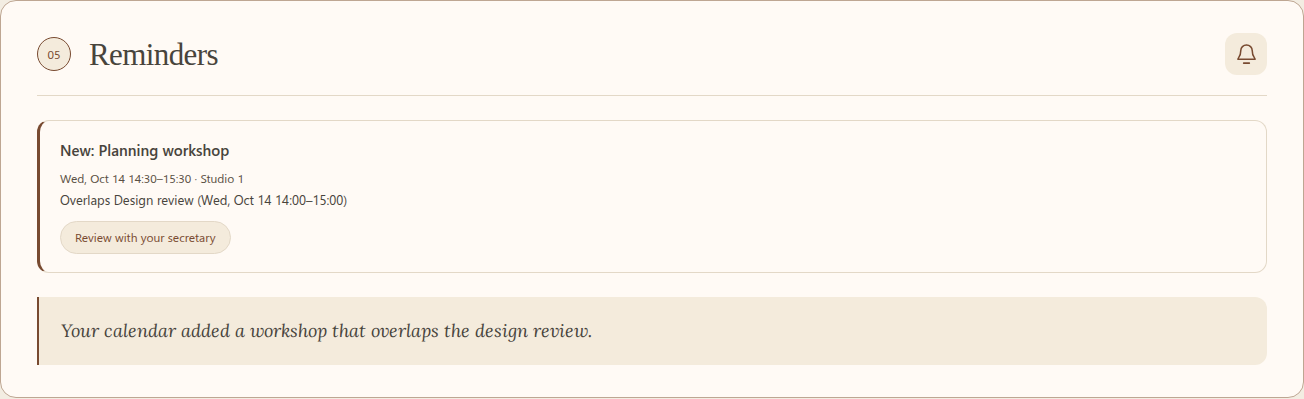
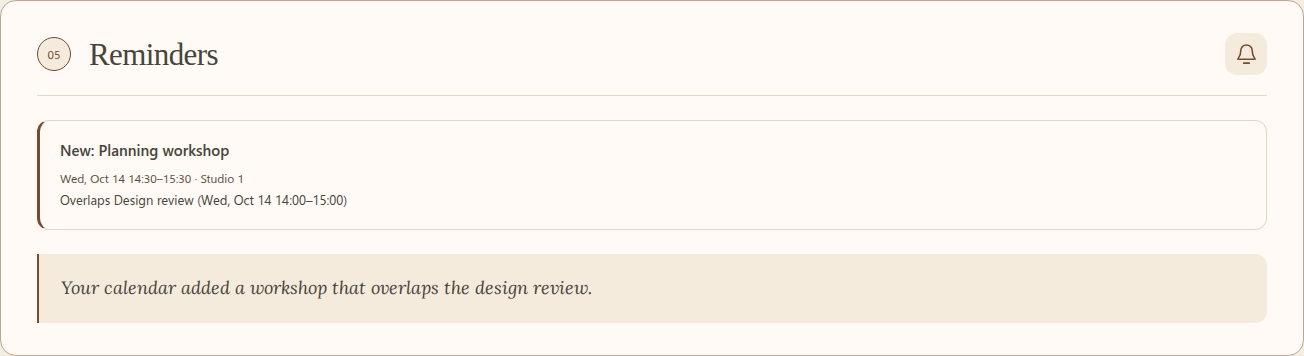
Show applied calendar changes in Reminders without a review button (#91)

diff --git a/src/goodmorning/briefings/briefing_document.py b/src/goodmorning/briefings/briefing_document.py
@@ -720,8 +720,10 @@ def render_block(value, images, briefing_date=None):
             parts = disp_detail.split(' · ') if disp_detail else []
             short, long = [p for p in parts if len(p) <= 32], [p for p in parts if len(p) > 32]
             detail = (f'<div class="decision-meta">{escaped(" · ".join(short))}</div>' if short else '') + ''.join(f'<div class="decision-detail">{escaped(p)}</div>' for p in long)
-            ask = (f'<a class="decision-ask" href="/chat" data-quick-ask="Let’s look at “{{title}}” together." data-quick-ask-title="{escaped(disp_title)}">'
-                   + ui.ui('Review with your secretary') + '</a>')
+            # A bare event ID is a calendar change that already applied: a notice, nothing to review.
+            ask = '' if re.fullmatch('[0-9a-f]{16}', row[0]) else (
+                f'<a class="decision-ask" href="/chat" data-quick-ask="Let’s look at “{{title}}” together." data-quick-ask-title="{escaped(disp_title)}">'
+                + ui.ui('Review with your secretary') + '</a>')
             items.append('<li class="decision-card"><div class="decision-title">' + escaped(disp_title) + '</div>' + detail + ask + '</li>')
         return '<ul class="decision-list">' + ''.join(items) + '</ul>'
     if tag == 'p':

diff --git a/tests/test_task_grouping.py b/tests/test_task_grouping.py
@@ -85,8 +85,10 @@ class GroupingTests(unittest.TestCase):
         self.assertNotIn('Review calendar change', html)
         self.assertNotIn('2026-10-23T11', html)
         self.assertIn('Fri, Oct 23 11:00–12:00', html)
-        # Each card offers a way to talk it through, starting from its own title.
-        self.assertIn('data-quick-ask-title="Canceled: Imperial-QMUL Catchup"', html)
+        # An applied calendar change is a notice; other reminders offer a way to talk them through.
+        self.assertNotIn('decision-ask', html)
+        html = native.render_block(['decisions', [['ib_abcdefabcdefabcd', 1, 'Pick a venue', 'Two options saved']]], {}, '2026-10-11')
+        self.assertIn('data-quick-ask-title="Pick a venue"', html)
         self.assertIn('href="/chat"', html)
 
     def test_calendar_change_copy_says_what_changed_with_human_times(self):

diff --git a/README.md b/README.md
@@ -69,7 +69,7 @@ File attachments, pasted images, Markdown replies, and saved conversation histor
 keep the details close; older To-do and Eureka chats stay in your history.
 
 **Ask from anywhere.** Morning, Evening, and Schedule each have a floating quick
-chat. Every reminder has a
+chat. Every reminder that needs a decision has a
 **Review with your secretary** button that opens it with a starter line, and
 nothing sends until you do.
 
